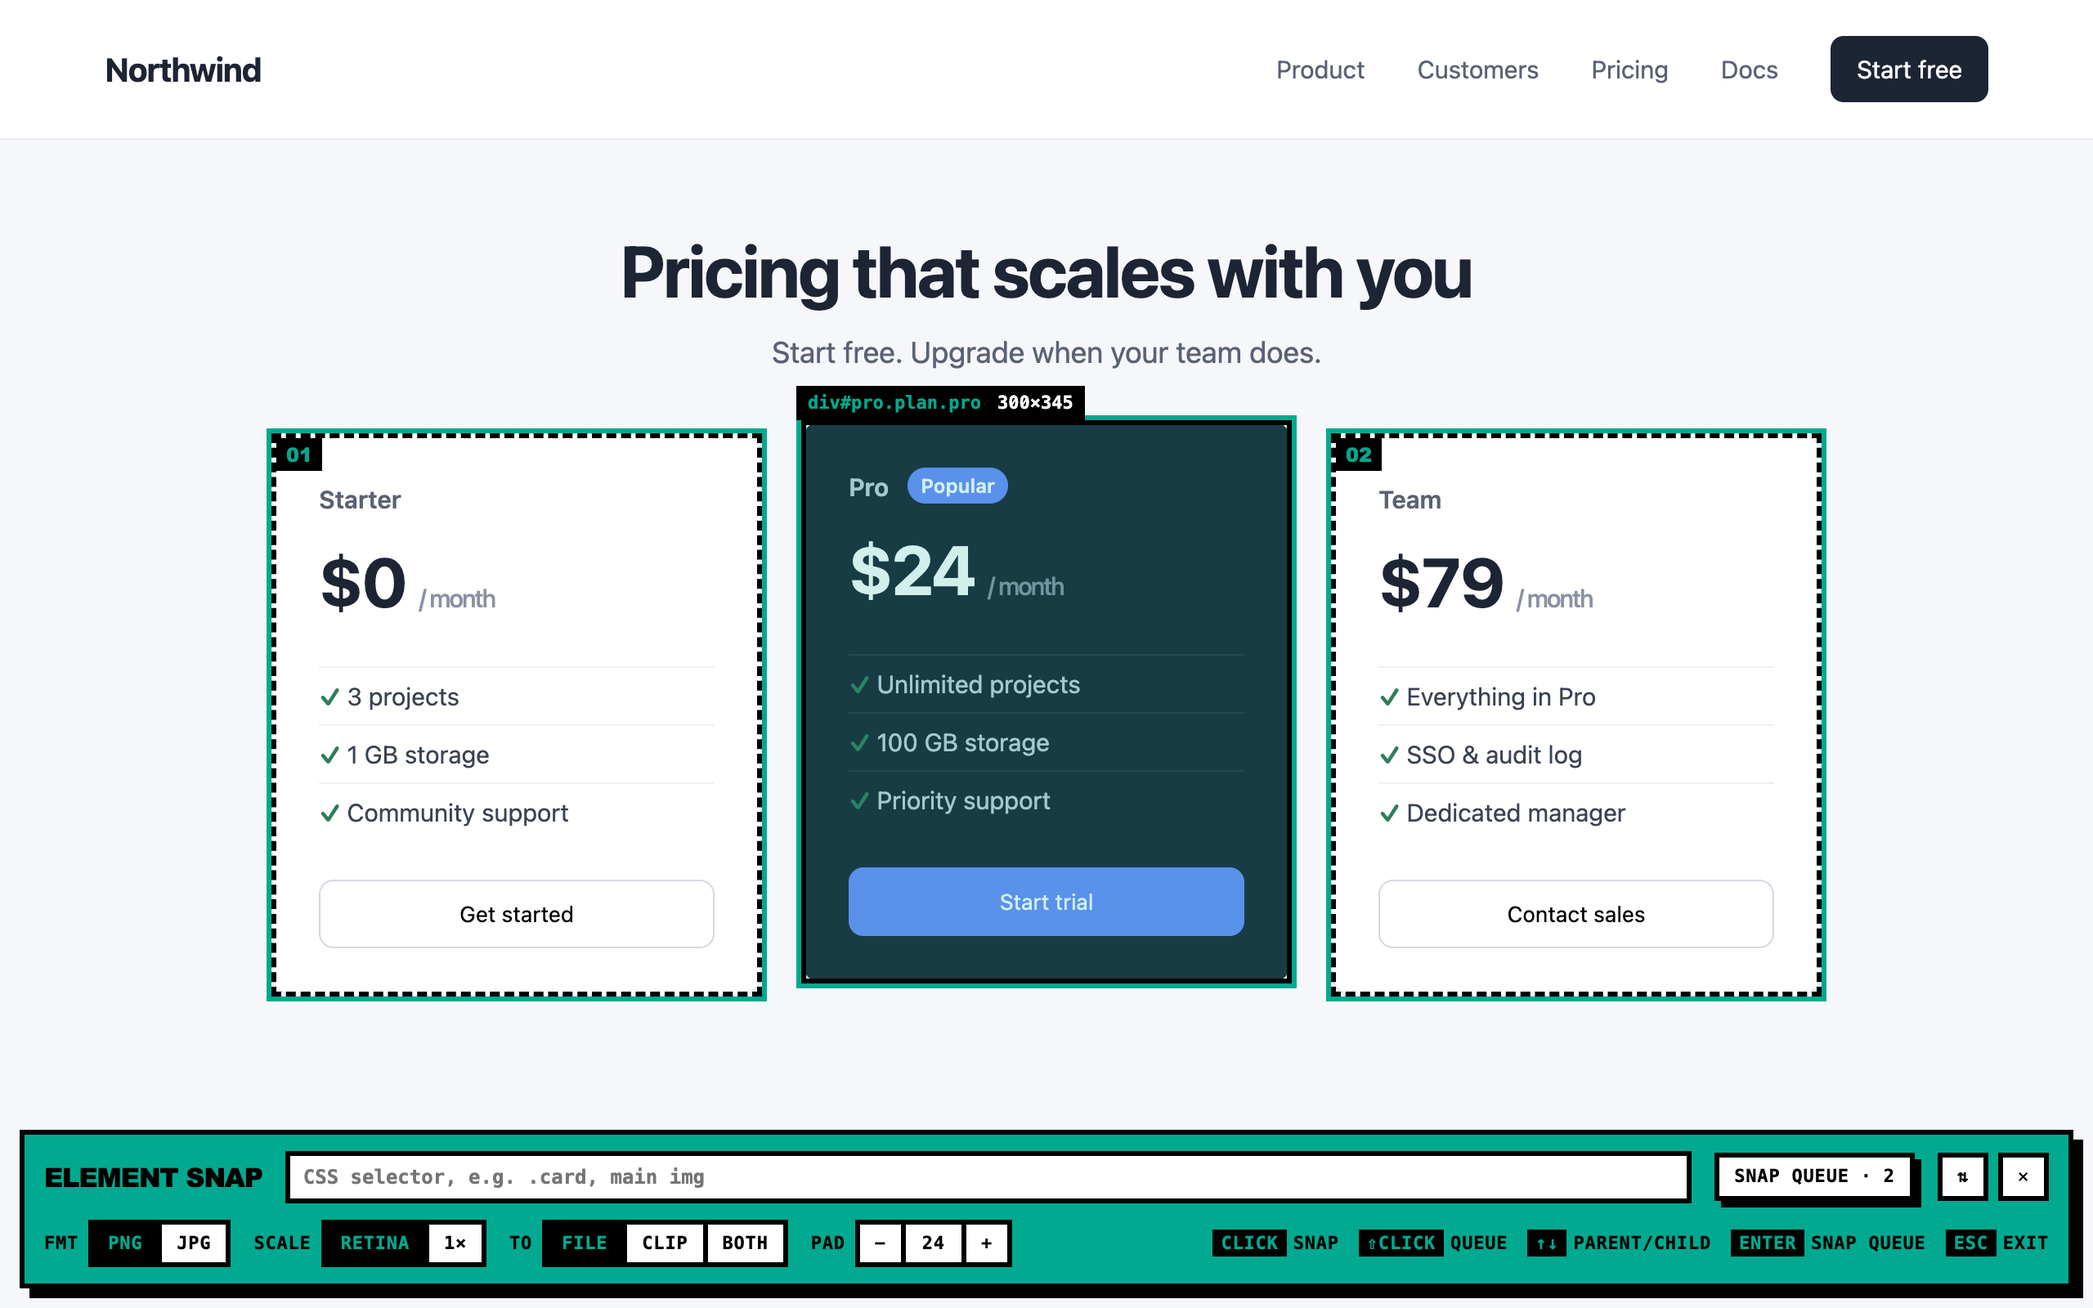
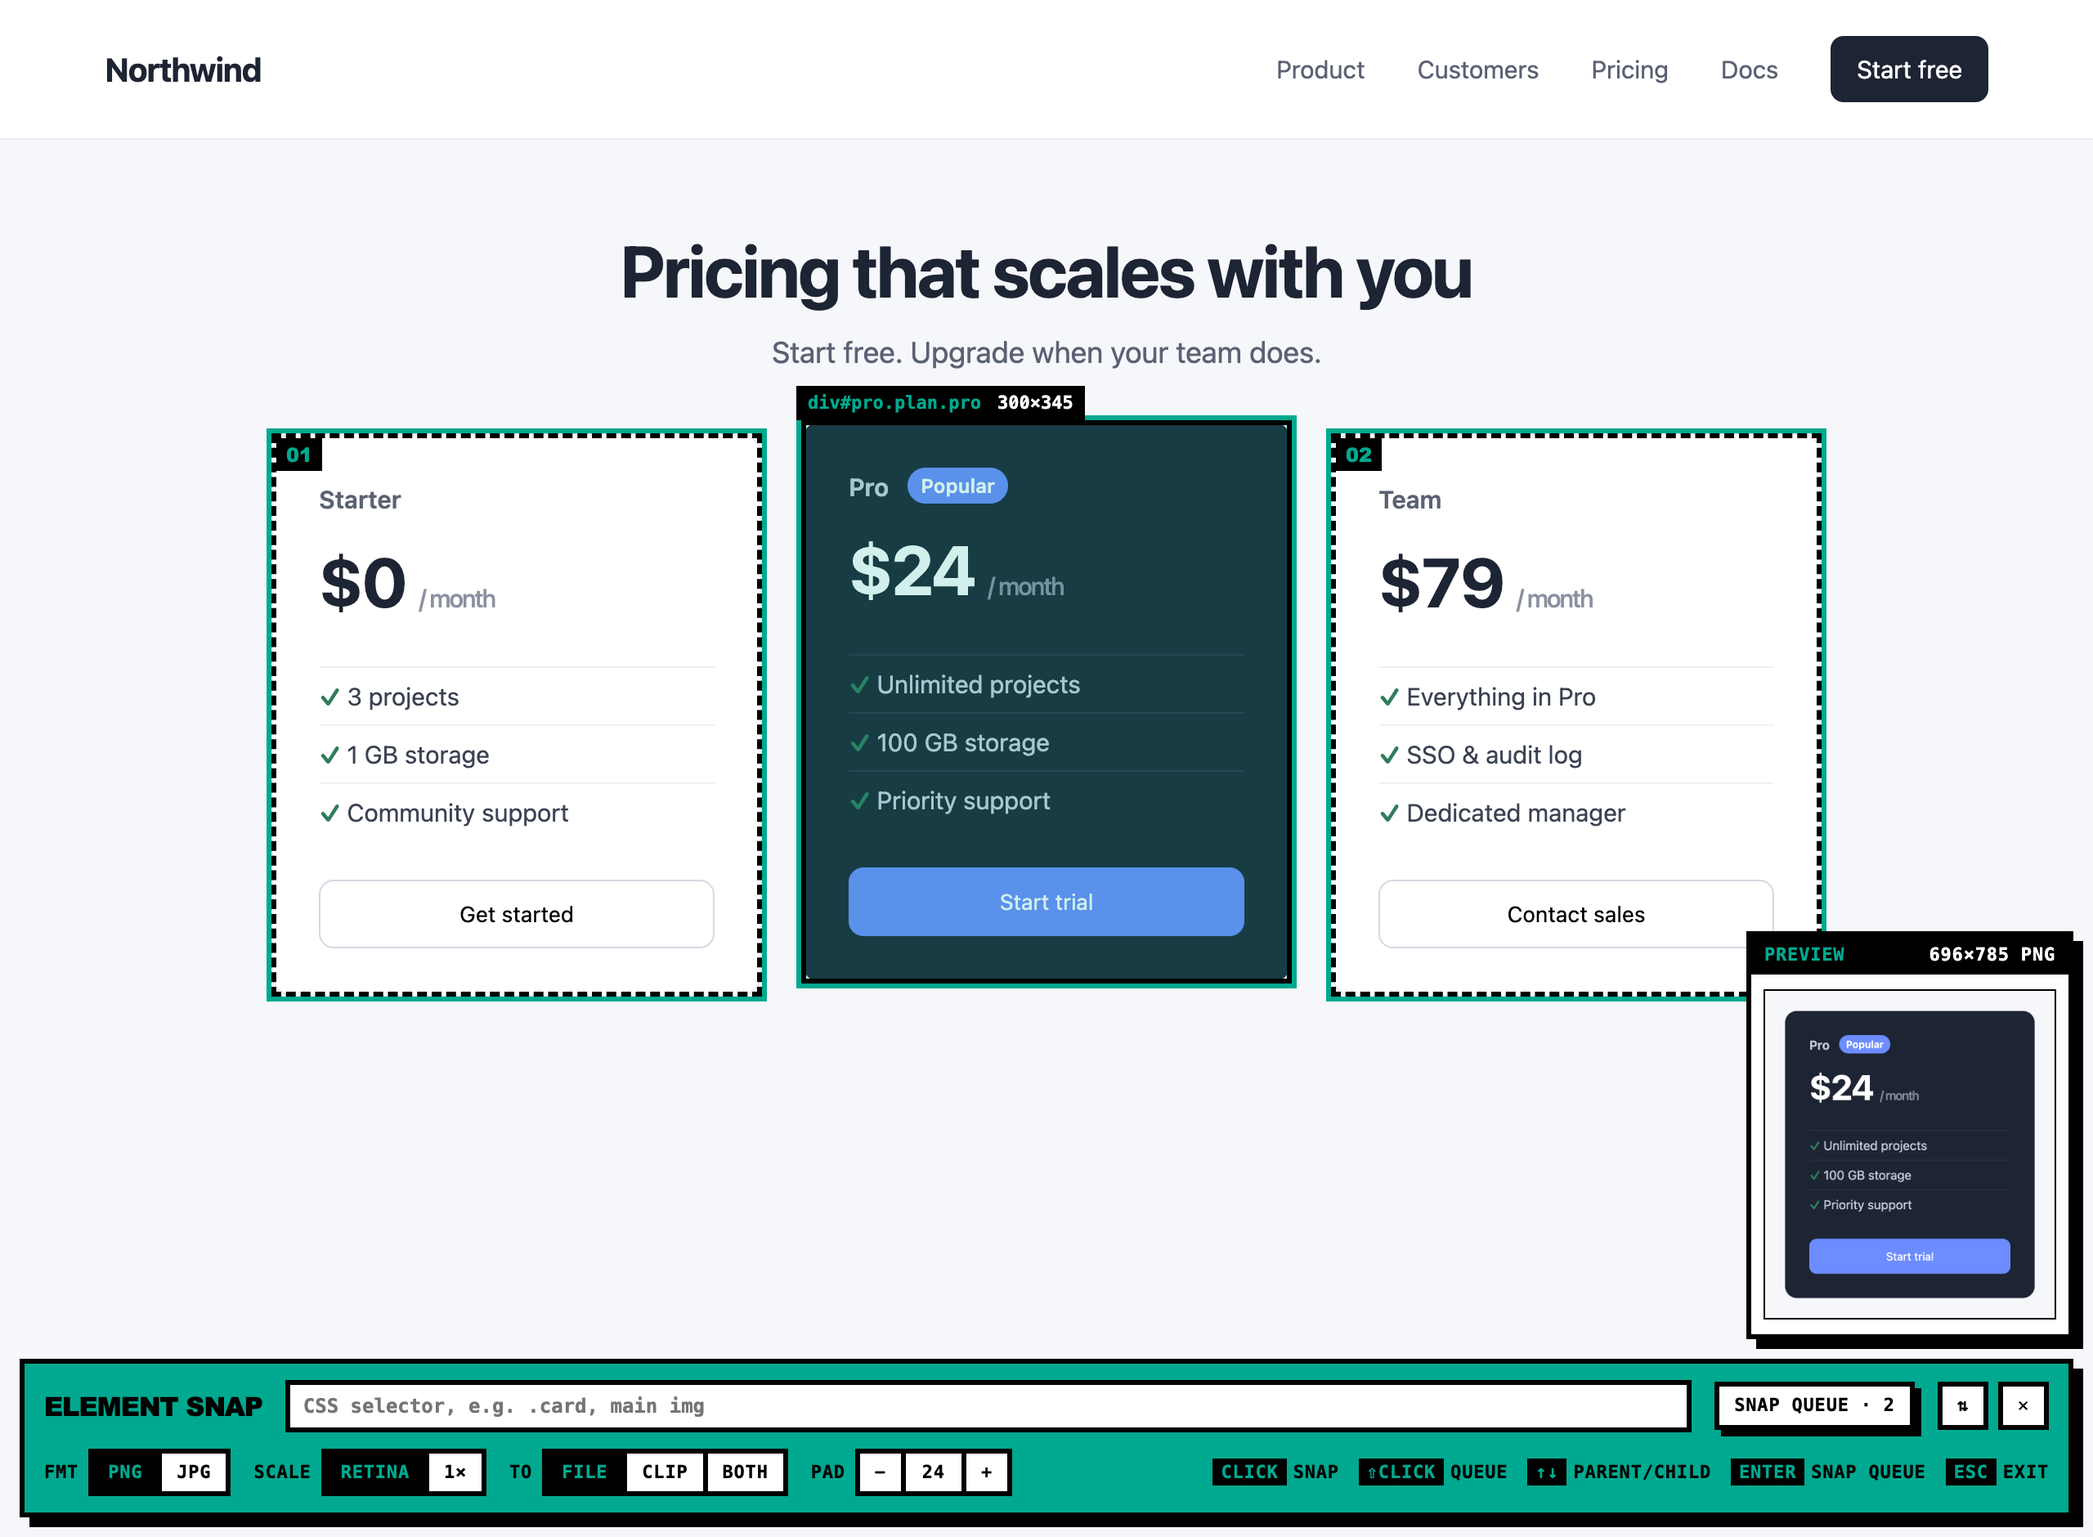
Show a live preview of the capture while hovering

diff --git a/content.js b/content.js
@@ -71,6 +71,21 @@
     }
     .bar.top ~ .toast { top: auto; bottom: 12px; }
     .toast.err { background: #ff3b00; color: #000; box-shadow: 6px 6px 0 #000; }
+
+    .preview {
+      position: fixed; right: 12px; min-width: 200px; max-width: 320px;
+      background: #fff; border: 3px solid #000; box-shadow: 6px 6px 0 #000;
+      font: 700 11px/1.2 ${MONO}; text-transform: uppercase; letter-spacing: .4px;
+    }
+    .preview.left { right: auto; left: 12px; }
+    .ph { display: flex; justify-content: space-between; gap: 16px; background: #000; color: #00a98f; padding: 5px 8px; }
+    .ph span { color: #fff; }
+    .preview canvas {
+      display: block; margin: 10px auto;
+      background: repeating-conic-gradient(#e4e4e4 0 25%, #fff 0 50%) 0 0 / 12px 12px;
+      outline: 1px solid #000;
+    }
+    .pnote { background: #00a98f; color: #000; padding: 5px 8px; border-top: 3px solid #000; }
   `;
 
   // Leftover hosts come from a previous injection whose extension context was reloaded.
@@ -107,7 +122,12 @@
         </div>
       </div>
     </div>
-    <div class="toast" hidden></div>`;
+    <div class="toast" hidden></div>
+    <div class="preview" hidden>
+      <div class="ph">PREVIEW <span class="pdim"></span></div>
+      <canvas></canvas>
+      <div class="pnote" hidden></div>
+    </div>`;
   const $ = (s) => root.querySelector(s);
   const box = $('.box');
   const label = $('.label');
@@ -117,6 +137,10 @@
   const padv = $('.padv');
   const marks = $('.marks');
   const toastEl = $('.toast');
+  const preview = $('.preview');
+  const pcanvas = $('.preview canvas');
+  const pdim = $('.pdim');
+  const pnote = $('.pnote');
 
   function mount() {
     if (!host.isConnected) document.documentElement.append(host);
@@ -157,10 +181,17 @@
     for (const b of seg.querySelectorAll('button')) b.setAttribute('aria-pressed', String(b.dataset.v === value));
   }
 
+  let settings = { ...DEFAULTS }; // mirror of storage, so the preview can react without a round trip
+
+  function setSetting(key, value) {
+    settings[key] = value;
+    chrome.storage.sync.set({ [key]: value });
+  }
+
   async function loadSettings() {
-    const s = await chrome.storage.sync.get(DEFAULTS);
-    for (const seg of root.querySelectorAll('.seg[data-key]')) press(seg, s[seg.dataset.key]);
-    padv.textContent = s.padding;
+    settings = { ...DEFAULTS, ...(await chrome.storage.sync.get(DEFAULTS)) };
+    for (const seg of root.querySelectorAll('.seg[data-key]')) press(seg, settings[seg.dataset.key]);
+    padv.textContent = settings.padding;
   }
 
   for (const seg of root.querySelectorAll('.seg[data-key]')) {
@@ -168,7 +199,7 @@
       const b = e.target.closest('button');
       if (!b) return;
       press(seg, b.dataset.v);
-      chrome.storage.sync.set({ [seg.dataset.key]: b.dataset.v });
+      setSetting(seg.dataset.key, b.dataset.v);
     });
   }
 
@@ -176,7 +207,7 @@
     b.addEventListener('click', () => {
       const padding = Math.min(400, Math.max(0, Number(padv.textContent) + Number(b.dataset.step)));
       padv.textContent = padding;
-      chrome.storage.sync.set({ padding });
+      setSetting('padding', padding);
     });
   }
 
@@ -220,7 +251,10 @@
   // Events from inside the bar arrive retargeted to the host; let them through.
   const ours = (e) => e.target === host;
 
+  let pointer = null; // last cursor position, to re-pick after the page scrolls under it
+
   function onMove(e) {
+    pointer = [e.clientX, e.clientY];
     if (busy) return;
     if (ours(e)) {
       current = null;
@@ -289,10 +323,125 @@
     snap(list);
   }
 
+  // ---------- live preview ----------
+  // One clean screenshot of the viewport (overlay hidden) is kept, and the hovered element is
+  // cropped out of it, so hovering costs no captures. It's retaken once scrolling or resizing stops.
+
+  const SHOT_GAP = 650; // matches the background's throttle for captureVisibleTab
+  const PREVIEW_W = 280;
+  const PREVIEW_H = 200;
+  let frame = null; // { bmp, k: device pixels per CSS pixel, id }
+  let frameJob = null;
+  let frameTimer = 0;
+  let frameCount = 0;
+  let viewVersion = 0;
+  let lastShotAt = 0;
+  let previewKey = '';
+
+  function dropFrame() {
+    frame?.bmp.close();
+    frame = null;
+  }
+
+  function scheduleFrame(delay = 250) {
+    clearTimeout(frameTimer);
+    frameTimer = setTimeout(() => {
+      if (picking && !busy) refreshFrame();
+    }, delay);
+  }
+
+  function onViewportChange() {
+    if (busy) return;
+    viewVersion++;
+    dropFrame();
+    scheduleFrame();
+    if (pointer && !trail.length) {
+      const t = document.elementFromPoint(...pointer);
+      current = t && t !== host ? t : null;
+    }
+  }
+
+  function refreshFrame() {
+    frameJob ??= (async () => {
+      // Wait out the rate limit before hiding the overlay, so it blinks as briefly as possible.
+      const wait = lastShotAt + SHOT_GAP - Date.now();
+      if (wait > 0) await sleep(wait);
+      if (!picking || busy) return;
+      const version = viewVersion;
+      showOverlay(false);
+      try {
+        await frames();
+        const { shot } = await send({ t: 'frame' });
+        const bmp = await createImageBitmap(dataUrlToBlob(shot));
+        dropFrame();
+        if (version === viewVersion) frame = { bmp, k: bmp.width / innerWidth, id: ++frameCount };
+        else bmp.close();
+      } catch {
+        dropFrame(); // no preview is better than a wrong one
+      } finally {
+        showOverlay(true);
+        frameJob = null;
+      }
+    })();
+    return frameJob;
+  }
+
+  const overlaps = (a, b) =>
+    a.left < b.left + b.width && b.left < a.right && a.top < b.top + b.height && b.top < a.bottom;
+
+  function drawPreview() {
+    const vw = document.documentElement.clientWidth;
+    const vh = document.documentElement.clientHeight;
+    const r = current?.isConnected && grow(current.getBoundingClientRect(), Number(settings.padding) || 0);
+    const vis = r && clipToViewport(r, vw, vh);
+    if (!frame || !vis || vis.width < 1 || vis.height < 1) {
+      preview.hidden = true;
+      previewKey = '';
+      return;
+    }
+    const onTop = bar.classList.contains('top');
+    const key = [frame.id, r.left, r.top, r.width, r.height, settings.scale, settings.format, onTop].join();
+    if (key === previewKey) return;
+    previewKey = key;
+
+    const s = Math.min(PREVIEW_W / vis.width, PREVIEW_H / vis.height, 3);
+    const w = Math.max(1, Math.round(vis.width * s));
+    const h = Math.max(1, Math.round(vis.height * s));
+    pcanvas.style.width = `${w}px`;
+    pcanvas.style.height = `${h}px`;
+    pcanvas.width = Math.round(w * devicePixelRatio);
+    pcanvas.height = Math.round(h * devicePixelRatio);
+    const ctx = pcanvas.getContext('2d');
+    ctx.imageSmoothingEnabled = s <= 1; // keep tiny elements (icons) crisp when blown up
+    ctx.imageSmoothingQuality = 'high';
+    const { bmp, k } = frame;
+    ctx.drawImage(bmp, vis.left * k, vis.top * k, vis.width * k, vis.height * k, 0, 0, pcanvas.width, pcanvas.height);
+
+    const out = settings.scale === '1x' ? 1 : k;
+    pdim.textContent = `${Math.round(r.width * out)}×${Math.round(r.height * out)} ${settings.format === 'jpeg' ? 'JPG' : 'PNG'}`;
+    const bigger = r.width > vw || r.height > vh;
+    const cut = vis.width < r.width - 0.5 || vis.height < r.height - 0.5;
+    pnote.hidden = !cut;
+    pnote.textContent = bigger ? 'BIGGER THAN SCREEN · STITCHED ON SAVE' : 'PARTLY OFF SCREEN · SCROLLED IN ON SAVE';
+
+    // Sit next to the bar, on whichever side doesn't cover the element.
+    const br = bar.getBoundingClientRect();
+    preview.style.top = onTop ? `${br.bottom + 12}px` : '';
+    preview.style.bottom = onTop ? '' : `${innerHeight - br.top + 12}px`;
+    preview.hidden = false;
+    preview.classList.remove('left');
+    if (overlaps(preview.getBoundingClientRect(), r)) {
+      preview.classList.add('left');
+      if (overlaps(preview.getBoundingClientRect(), r)) preview.classList.remove('left');
+    }
+  }
+
   const LISTENERS = [
     ['mousemove', onMove],
     ['click', onClick],
     ['keydown', onKey],
+    ['scroll', onViewportChange], // capture phase also catches nested scroll boxes
+    ['resize', onViewportChange],
     ...['pointerdown', 'pointerup', 'mousedown', 'mouseup', 'dblclick', 'auxclick', 'contextmenu'].map((t) => [t, guard]),
   ];
 
@@ -312,6 +461,7 @@
     } else {
       box.hidden = true;
     }
+    drawPreview();
 
     if (queue.some((el) => !el.isConnected)) setQueue(queue.filter((el) => el.isConnected));
     while (marks.children.length > queue.length) marks.lastChild.remove();
@@ -336,6 +486,7 @@
     loadSettings();
     for (const [type, fn] of LISTENERS) addEventListener(type, fn, true);
     draw();
+    scheduleFrame(100);
   }
 
   function stopPicker() {
@@ -346,9 +497,12 @@
     sel.value = '';
     sel.classList.remove('bad');
     cancelAnimationFrame(raf);
+    clearTimeout(frameTimer);
+    dropFrame();
     for (const [type, fn] of LISTENERS) removeEventListener(type, fn, true);
     box.hidden = true;
     bar.hidden = true;
+    preview.hidden = true;
     marks.replaceChildren();
   }
 
@@ -366,6 +520,7 @@
 
   async function send(msg) {
     const res = await chrome.runtime.sendMessage(msg);
+    if (msg.t === 'tile' || msg.t === 'frame') lastShotAt = Date.now();
     if (!res?.ok) throw new Error(res?.error || 'NO RESPONSE FROM EXTENSION');
     return res;
   }
@@ -470,11 +625,16 @@
     return `${d.getFullYear()}${p(d.getMonth() + 1)}${p(d.getDate())}-${p(d.getHours())}${p(d.getMinutes())}${p(d.getSeconds())}`;
   }
 
-  async function copyPng(dataUrl) {
+  // Decoded by hand: fetch() on a data URL can be blocked by the page's CSP.
+  function dataUrlToBlob(dataUrl) {
     const bin = atob(dataUrl.split(',')[1]);
     const bytes = new Uint8Array(bin.length);
     for (let i = 0; i < bin.length; i++) bytes[i] = bin.charCodeAt(i);
-    await navigator.clipboard.write([new ClipboardItem({ 'image/png': new Blob([bytes], { type: 'image/png' }) })]);
+    return new Blob([bytes], { type: 'image/png' });
+  }
+
+  async function copyPng(dataUrl) {
+    await navigator.clipboard.write([new ClipboardItem({ 'image/png': dataUrlToBlob(dataUrl) })]);
   }
 
   const hasSize = (el) => {
@@ -489,6 +649,7 @@
 
     busy = true;
     mount();
+    await frameJob; // a preview refresh may have the overlay hidden right now
     const s = { ...DEFAULTS, ...(await chrome.storage.sync.get(DEFAULTS)) };
     const start = [scrollX, scrollY];
     const stamp = stampNow();

diff --git a/background.js b/background.js
@@ -42,19 +42,27 @@ async function toOffscreen(msg) {
   return res;
 }
 
+async function shootTab(tabId) {
+  const tab = await chrome.tabs.get(tabId);
+  if (!tab.active) throw new Error('TAB LOST FOCUS. KEEP IT VISIBLE WHILE SNAPPING');
+  return shoot(tab.windowId).catch((err) => {
+    throw new Error(
+      /activeTab|all_urls|permission/i.test(err.message)
+        ? 'NO ACCESS. CLICK THE ELEMENT SNAP ICON ON THIS TAB FIRST'
+        : err.message,
+    );
+  });
+}
+
 const handlers = {
   async tile(msg, sender) {
-    const tab = await chrome.tabs.get(sender.tab.id);
-    if (!tab.active) throw new Error('TAB LOST FOCUS. KEEP IT VISIBLE WHILE SNAPPING');
-    const shot = await shoot(tab.windowId).catch((err) => {
-      throw new Error(
-        /activeTab|all_urls|permission/i.test(err.message)
-          ? 'NO ACCESS. OPEN ELEMENT SNAP ON THIS TAB FIRST'
-          : err.message,
-      );
-    });
-    await toOffscreen({ ...msg, shot });
+    await toOffscreen({ ...msg, shot: await shootTab(sender.tab.id) });
     return {};
+  },
+
+  // A clean viewport screenshot the picker crops hover previews from.
+  async frame(_msg, sender) {
+    return { shot: await shootTab(sender.tab.id) };
   },
 
   async finish(msg) {

diff --git a/README.md b/README.md
@@ -2,9 +2,9 @@
 
 A Chrome extension that saves any element on a web page as a pixel-exact image.
 
-Click the toolbar icon and the picker starts right away. Hover to highlight an element, click to save it. Queue several and save them in one go, or type a CSS selector to grab every match. Elements taller than the screen are scrolled through and stitched into one image.
+Click the toolbar icon and the picker starts right away. Hover to highlight an element and see a live preview of the image you'll get, then click to save it. Queue several and save them in one go, or type a CSS selector to grab every match. Elements taller than the screen are scrolled through and stitched into one image.
 
-<p align="center"><img src="docs/screenshot.png" width="800" alt="Element Snap's picker on a pricing page: the Pro card is highlighted with its tag and size, the Starter and Team cards are queued as 01 and 02, and the teal bar at the bottom holds the selector field and output settings"></p>
+<p align="center"><img src="docs/screenshot.png" width="800" alt="Element Snap's picker on a pricing page: the Pro card is highlighted with its tag and size, a preview card in the corner shows the cropped Pro card and its output size of 696×785 PNG, the Starter and Team cards are queued as 01 and 02, and the teal bar at the bottom holds the selector field and output settings"></p>
 
 <p align="center"><img src="docs/output.png" width="348" alt="The saved image: just the Pro pricing card with 24px of padding, at retina resolution"><br><sub>What lands in your Downloads folder: just the element, at retina resolution.</sub></p>
 
@@ -36,6 +36,8 @@ Click the toolbar icon, or press `⌥⇧S` (`Alt+Shift+S` on Windows and Linux).
 | Enter | Save the queue (or the highlighted element if the queue is empty) |
 | Esc | Close the picker |
 
+While you hover, a **preview** card next to the bar shows the element cropped as it will be saved, with your padding, plus the output size in pixels. It notes when an element is bigger than the screen (it gets stitched) or partly off screen (it gets scrolled into view). The preview steps aside if it would cover the element you're pointing at.
+
 The bar at the bottom of the page holds the rest:
 
 - **Selector field.** Type a CSS selector and every visible match joins the queue. Enter or **SNAP QUEUE** saves them all.
@@ -65,6 +67,7 @@ flowchart LR
 
     Icon --> BG
     BG -- "inject + toggle" --> CS
+    CS -- "frame: clean viewport<br/>for hover previews" --> BG
     CS -- "scroll, then crop rect<br/>for each tile" --> BG
     BG -- "captureVisibleTab<br/>+ crop rect" --> OFF
     CS -- "finish" --> BG
@@ -74,6 +77,7 @@ flowchart LR
 ```
 
 - **`content.js`** is injected when you click the icon. It draws the highlight, labels, queue marks and bar inside a closed shadow root, so page styles can't touch them and they never show up in a capture. For each element it works out which part of the screen to crop and scrolls the page there. Elements bigger than the screen are done one screenful at a time, with fixed and sticky elements outside the target hidden so headers don't repeat. The scroll position is restored afterwards.
+  For the hover preview it keeps one clean screenshot of the visible area, taken with the overlay hidden, and crops each hovered element out of it on a canvas. Chrome allows only 2 screenshots a second, so taking one per hover isn't possible. The screenshot is retaken once scrolling or resizing stops.
 - **`background.js`** takes the screenshots with `chrome.tabs.captureVisibleTab`, queued to Chrome's limit of 2 per second, and hands the finished image to `chrome.downloads`.
 - **`offscreen.js`** runs in an offscreen document. It crops each screenshot and draws it onto one canvas per element, rounding the tile edges so there are no seams. It lives there because a service worker can't create blob URLs, and data URLs over about 2 MB fail in `chrome.downloads`.
 
@@ -95,6 +99,7 @@ The extension has no host permissions and never runs on a page you haven't click
 - Content inside iframes from other sites can't be picked, but the iframe as a whole can.
 - Sticky elements inside the element you're capturing (a table header, say) repeat in each screenful of a tall capture.
 - The tab has to stay visible while a capture runs.
+- The preview comes from a screenshot taken when the page last stopped scrolling. Animations, hover effects and content that changed since then show up in the saved image but not in the preview. The overlay blinks briefly whenever that screenshot is retaken.
 - Chrome blocks extensions on `chrome://` pages and the Web Store. The icon shows a red **NO** badge there.
 
 ## Development
